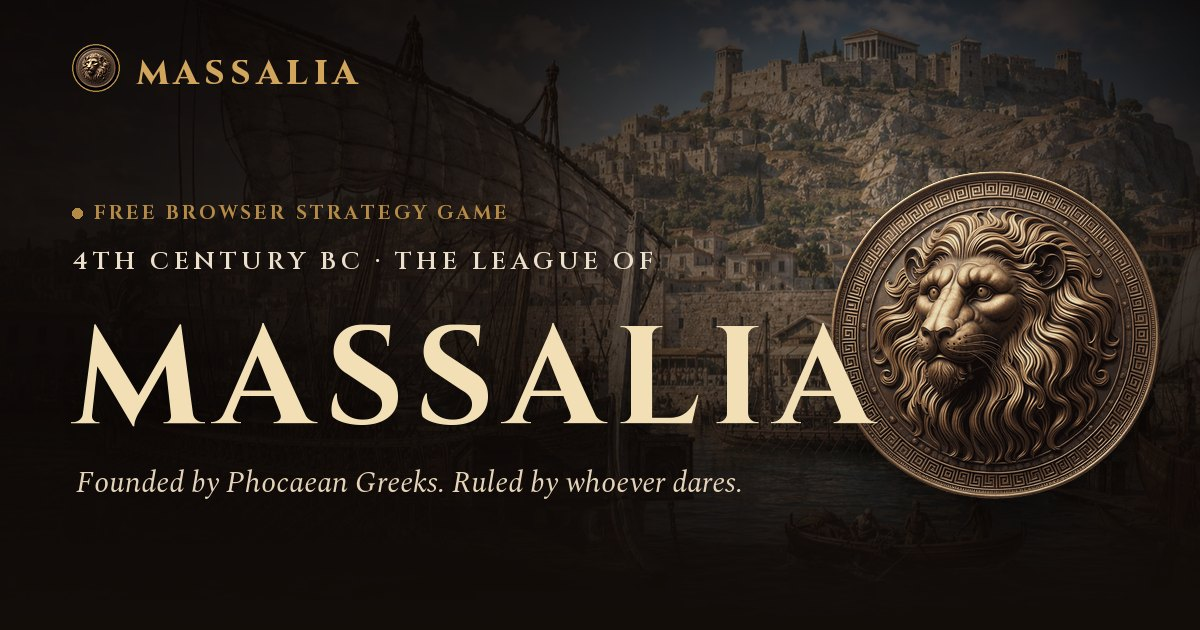
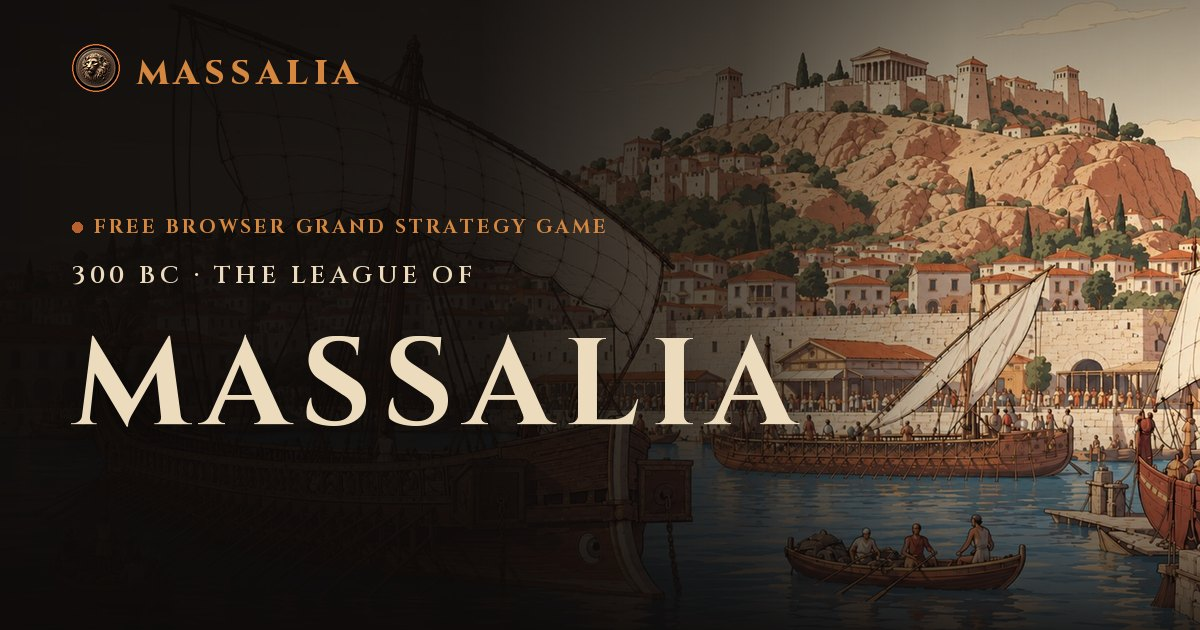
art: the link card redrawn from the new harbour
The link preview card (og-image.jpg, read from og:image by Discord and other
scrapers) still showed the old harbour, the gold lettering and the lion
medallion: art prompt 1 replaced the front art but left the card out.

build_og now draws it from the current MASSALIA FRONT.jpg in the old layout
and the theme's colours (rulings of 4 Oct 2026): a black fade from the left,
the brand lockup with a terracotta ring, the eyebrow FREE BROWSER GRAND
STRATEGY GAME, the lead 300 BC · THE LEAGUE OF and the wordmark in cream. The
large lion medallion and the italic subline are gone, so radial_overlay and
the Spectral font have no caller left. brand_mark takes an optional ring
colour; the favicon path keeps the default, and favicon.ico and
apple-touch-icon.png are byte-identical to before.

og:image carries ?v=2 so scrapers fetch the new file instead of their cached
copy, and og:image:alt describes the new picture. The title, the description
and the CSP do not change.

diff --git a/apps/web/index.html b/apps/web/index.html
@@ -20,10 +20,10 @@
     <meta property="og:title" content="Massalia — The League" />
     <meta property="og:description" content="Lead a Greek house in Massalia, 300 BC. Trade, scheme and hold office in a browser strategy RPG played one season a day." />
     <meta property="og:url" content="https://playmassalia.com/" />
-    <meta property="og:image" content="https://playmassalia.com/og-image.jpg" />
+    <meta property="og:image" content="https://playmassalia.com/og-image.jpg?v=2" />
     <meta property="og:image:width" content="1200" />
     <meta property="og:image:height" content="630" />
-    <meta property="og:image:alt" content="Massalia — the city and harbour, with the lion medallion" />
+    <meta property="og:image:alt" content="The harbour of Massalia below its acropolis" />
     <meta name="twitter:card" content="summary_large_image" />
     <!-- Privacy-friendly analytics by Plausible (queue stub lives in src/plausible.ts
          so the CSP needs no 'unsafe-inline' for scripts) -->

diff --git a/tools/icons/build_icons.py b/tools/icons/build_icons.py
@@ -4,14 +4,14 @@
 Sources (read only, all under apps/web/public/assets/):
   MASSALIA LION.png     brand mark
   MASSALIA FRONT.jpg    landing hero background
-  fonts/Cinzel, fonts/Spectral
+  fonts/Cinzel
 
 Outputs (apps/web/public/):
   favicon.ico           16/32/48 frames — the header `.brand-mark` (styles.css:195):
                         dark disc, 1px gold ring at 38px, lion at 82%
   apple-touch-icon.png  180x180, same mark on an opaque dark square (iOS turns transparency black)
-  og-image.jpg          1200x630 still of the landing hero (`.landing-hero` overlays, brand lockup,
-                        eyebrow, lead, h1, subline, `.hero-lion`) for link previews
+  og-image.jpg          1200x630 link-preview card: the front art under a black fade from the left,
+                        brand lockup, eyebrow, lead and h1 in the theme's terracotta and cream
 
 Run from repo root:  python3 tools/icons/build_icons.py
 """
@@ -37,12 +37,12 @@ def lion_square() -> Image.Image:
     return sq
 
 
-def brand_mark(size: int, ss: int = 4) -> Image.Image:
+def brand_mark(size: int, ss: int = 4, ring_color=RING) -> Image.Image:
     """The header medallion at `size` px, transparent outside the disc."""
     S = size * ss
     im = Image.new("RGBA", (S, S), (0, 0, 0, 0))
     ring = max(1, round(S * RING_RATIO))
-    ImageDraw.Draw(im).ellipse([0, 0, S - 1, S - 1], fill=DARK + (255,), outline=RING + (255,), width=ring)
+    ImageDraw.Draw(im).ellipse([0, 0, S - 1, S - 1], fill=DARK + (255,), outline=ring_color + (255,), width=ring)
     l = round(S * LION_RATIO)
     lion = lion_square().resize((l, l), Image.LANCZOS)
     im.alpha_composite(lion, ((S - l) // 2, (S - l) // 2))
@@ -82,18 +82,6 @@ def linear_overlay(stops, horizontal: bool) -> Image.Image:
     return im
 
 
-def radial_overlay(cx, cy, inner, outer, color, radius) -> Image.Image:
-    """Transparent inside `inner*radius`, ramps to `color` at `outer*radius` (CSS radial-gradient approximation)."""
-    g = Image.radial_gradient("L").resize((radius * 2, radius * 2), Image.BILINEAR)
-    lo, hi = int(inner * 255), int(outer * 255)
-    a = g.point(lambda v: 0 if v <= lo else (color[3] if v >= hi else round(color[3] * (v - lo) / (hi - lo))))
-    layer = Image.new("RGBA", (W, H), color[:3] + (0,))
-    full = Image.new("L", (W, H), color[3])
-    full.paste(a, (cx - radius, cy - radius))
-    layer.putalpha(full)
-    return layer
-
-
 def tracked(draw, xy, text, font, fill, tracking_em):
     x, y = xy
     step = tracking_em * font.size
@@ -107,53 +95,42 @@ def build_og(out: Path) -> None:
     pub = PUB
     fonts = pub / "assets/fonts"
     cinzel = lambda w, s: ImageFont.truetype(str(fonts / f"Cinzel/static/Cinzel-{w}.ttf"), s)
-    spectral_it = ImageFont.truetype(str(fonts / "Spectral/Spectral-Italic.ttf"), 30)
 
-    # background: MASSALIA FRONT.jpg, cover-cropped to 1200x630
+    PAGE = (13, 10, 9)          # --page #0d0a09
+    ACCENT = (184, 97, 47)      # --accent #b8612f (fills and rings)
+    BRIGHT = (214, 135, 63)     # --accent-bright #d6873f (small accent text)
+    CREAM = (236, 220, 189)     # --cream #ecdcbd
+
+    # background: MASSALIA FRONT.jpg, cover-cropped to 1200x630, anchored to the top edge
     bg = Image.open(pub / "assets/MASSALIA FRONT.jpg").convert("RGB")
     bw, bh = bg.size
     th = round(bw * H / W)
-    top = (bh - th) // 2
-    im = bg.crop((0, top, bw, top + th)).resize((W, H), Image.LANCZOS).convert("RGBA")
+    im = bg.crop((0, 0, bw, th)).resize((W, H), Image.LANCZOS).convert("RGBA")
 
-    # .landing-hero overlays (styles.css) — same stops, same order
-    im.alpha_composite(linear_overlay([(0.00, (13, 8, 6, 230)), (0.42, (18, 11, 8, 199)), (0.72, (17, 10, 8, 46)), (1.00, (12, 7, 6, 194))], horizontal=True))
-    im.alpha_composite(linear_overlay([(0.00, (11, 7, 5, 158)), (0.34, (11, 7, 5, 0)), (1.00, (12, 7, 5, 204))], horizontal=False))
-    im.alpha_composite(radial_overlay(int(W * 0.72), int(H * 0.44), 0.20, 0.58, (10, 6, 5, 122), radius=900))
-    im.alpha_composite(linear_overlay([(0.62, (19, 13, 10, 0)), (1.00, (19, 13, 10, 255))], horizontal=False))
-
-    # .hero-lion on the right (opacity .9, drop shadow)
-    lion = lion_square().resize((330, 330), Image.LANCZOS)
-    lx, ly = 830, 170
-    sh = Image.new("RGBA", (W, H), (0, 0, 0, 0)); sh.paste((0, 0, 0, 140), (lx, ly + 26), lion.getchannel("A"))
-    im.alpha_composite(sh.filter(ImageFilter.GaussianBlur(28)))
-    lion_layer = Image.new("RGBA", (W, H), (0, 0, 0, 0)); lion_layer.paste(lion, (lx, ly), lion)
-    lion_layer.putalpha(lion_layer.getchannel("A").point(lambda v: round(v * 0.9)))
-    im.alpha_composite(lion_layer)
+    # black fade from the left (the harbour stays clear on the right), then a top and bottom vignette
+    im.alpha_composite(linear_overlay([(0.00, PAGE + (247,)), (0.40, PAGE + (235,)), (0.62, PAGE + (168,)), (0.80, PAGE + (41,)), (1.00, PAGE + (0,))], horizontal=True))
+    im.alpha_composite(linear_overlay([(0.00, PAGE + (107,)), (0.26, PAGE + (0,)), (0.66, PAGE + (0,)), (1.00, PAGE + (219,))], horizontal=False))
 
     d = ImageDraw.Draw(im)
     X = 72
-    # .brand-lockup: mark + wordmark (gold-bright, ExtraBold, tracking .16em)
-    mark = brand_mark(48, ss=2); im.alpha_composite(mark, (X, 44)); d = ImageDraw.Draw(im)
-    tracked(d, (X + 64, 50), "MASSALIA", cinzel("ExtraBold", 34), (210, 165, 92, 255), 0.16)
+    # brand lockup: mark with a terracotta ring + wordmark (accent-bright, ExtraBold, tracking .16em)
+    mark = brand_mark(48, ss=2, ring_color=ACCENT); im.alpha_composite(mark, (X, 44)); d = ImageDraw.Draw(im)
+    tracked(d, (X + 64, 50), "MASSALIA", cinzel("ExtraBold", 34), BRIGHT + (255,), 0.16)
 
-    # .hero-eyebrow: gold dot + text (gold, Bold, tracking .16em)
-    y = 200
-    d.ellipse([X, y + 8, X + 10, y + 18], fill=(181, 138, 69, 255))
-    tracked(d, (X + 22, y), "FREE BROWSER STRATEGY GAME", cinzel("Bold", 19), (181, 138, 69, 255), 0.16)
-    # .hero-lead (cream 78%, SemiBold, tracking .18em)
+    # eyebrow: terracotta dot + text (accent-bright, Bold, tracking .16em)
+    y = 214
+    d.ellipse([X, y + 8, X + 10, y + 18], fill=ACCENT + (255,))
+    tracked(d, (X + 22, y), "FREE BROWSER GRAND STRATEGY GAME", cinzel("Bold", 19), BRIGHT + (255,), 0.16)
+    # lead (cream 80%, SemiBold, tracking .18em)
     y += 44
-    tracked(d, (X, y), "4TH CENTURY BC · THE LEAGUE OF", cinzel("SemiBold", 25), (236, 224, 204, 199), 0.18)
-    # h1 (#f2dfb6, Bold, tracking .08em, text-shadow)
+    tracked(d, (X, y), "300 BC · THE LEAGUE OF", cinzel("SemiBold", 25), CREAM + (205,), 0.18)
+    # h1 (cream, Bold, tracking .08em, soft shadow)
     y += 44
-    h1 = cinzel("Bold", 138)
+    h1 = cinzel("Bold", 124)
     sh = Image.new("RGBA", (W, H), (0, 0, 0, 0))
-    tracked(ImageDraw.Draw(sh), (X, y + 18), "MASSALIA", h1, (0, 0, 0, 143), 0.08)
-    im.alpha_composite(sh.filter(ImageFilter.GaussianBlur(24))); d = ImageDraw.Draw(im)
-    tracked(d, (X, y), "MASSALIA", h1, (242, 223, 182, 255), 0.08)
-    # .hero-subline (#e4d3b9, Spectral italic)
-    y += 172
-    d.text((X + 4, y), "Founded by Phocaean Greeks. Ruled by whoever dares.", font=spectral_it, fill=(228, 211, 185, 255))
+    tracked(ImageDraw.Draw(sh), (X, y + 14), "MASSALIA", h1, (0, 0, 0, 170), 0.08)
+    im.alpha_composite(sh.filter(ImageFilter.GaussianBlur(22))); d = ImageDraw.Draw(im)
+    tracked(d, (X, y), "MASSALIA", h1, CREAM + (255,), 0.08)
 
     im.convert("RGB").save(out, quality=86, optimize=True, progressive=True)
 
